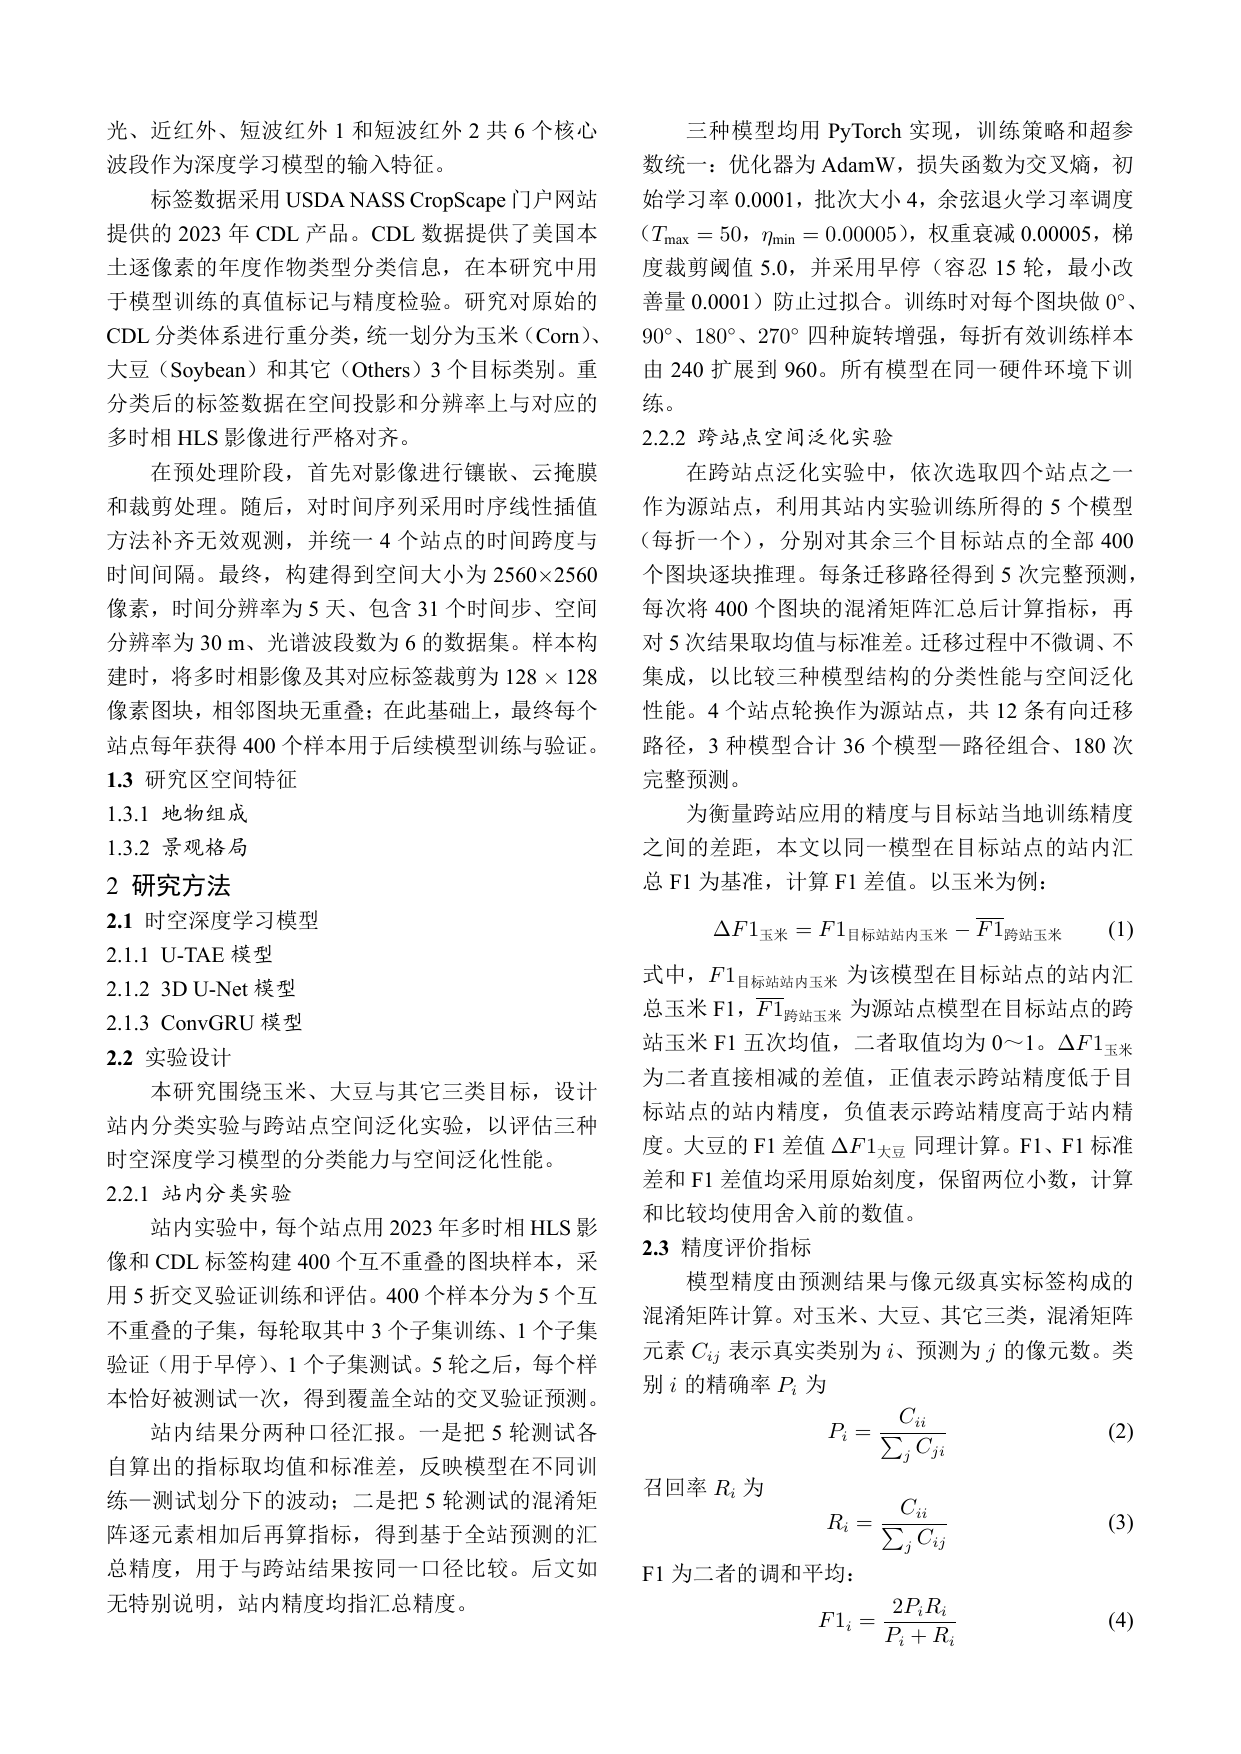
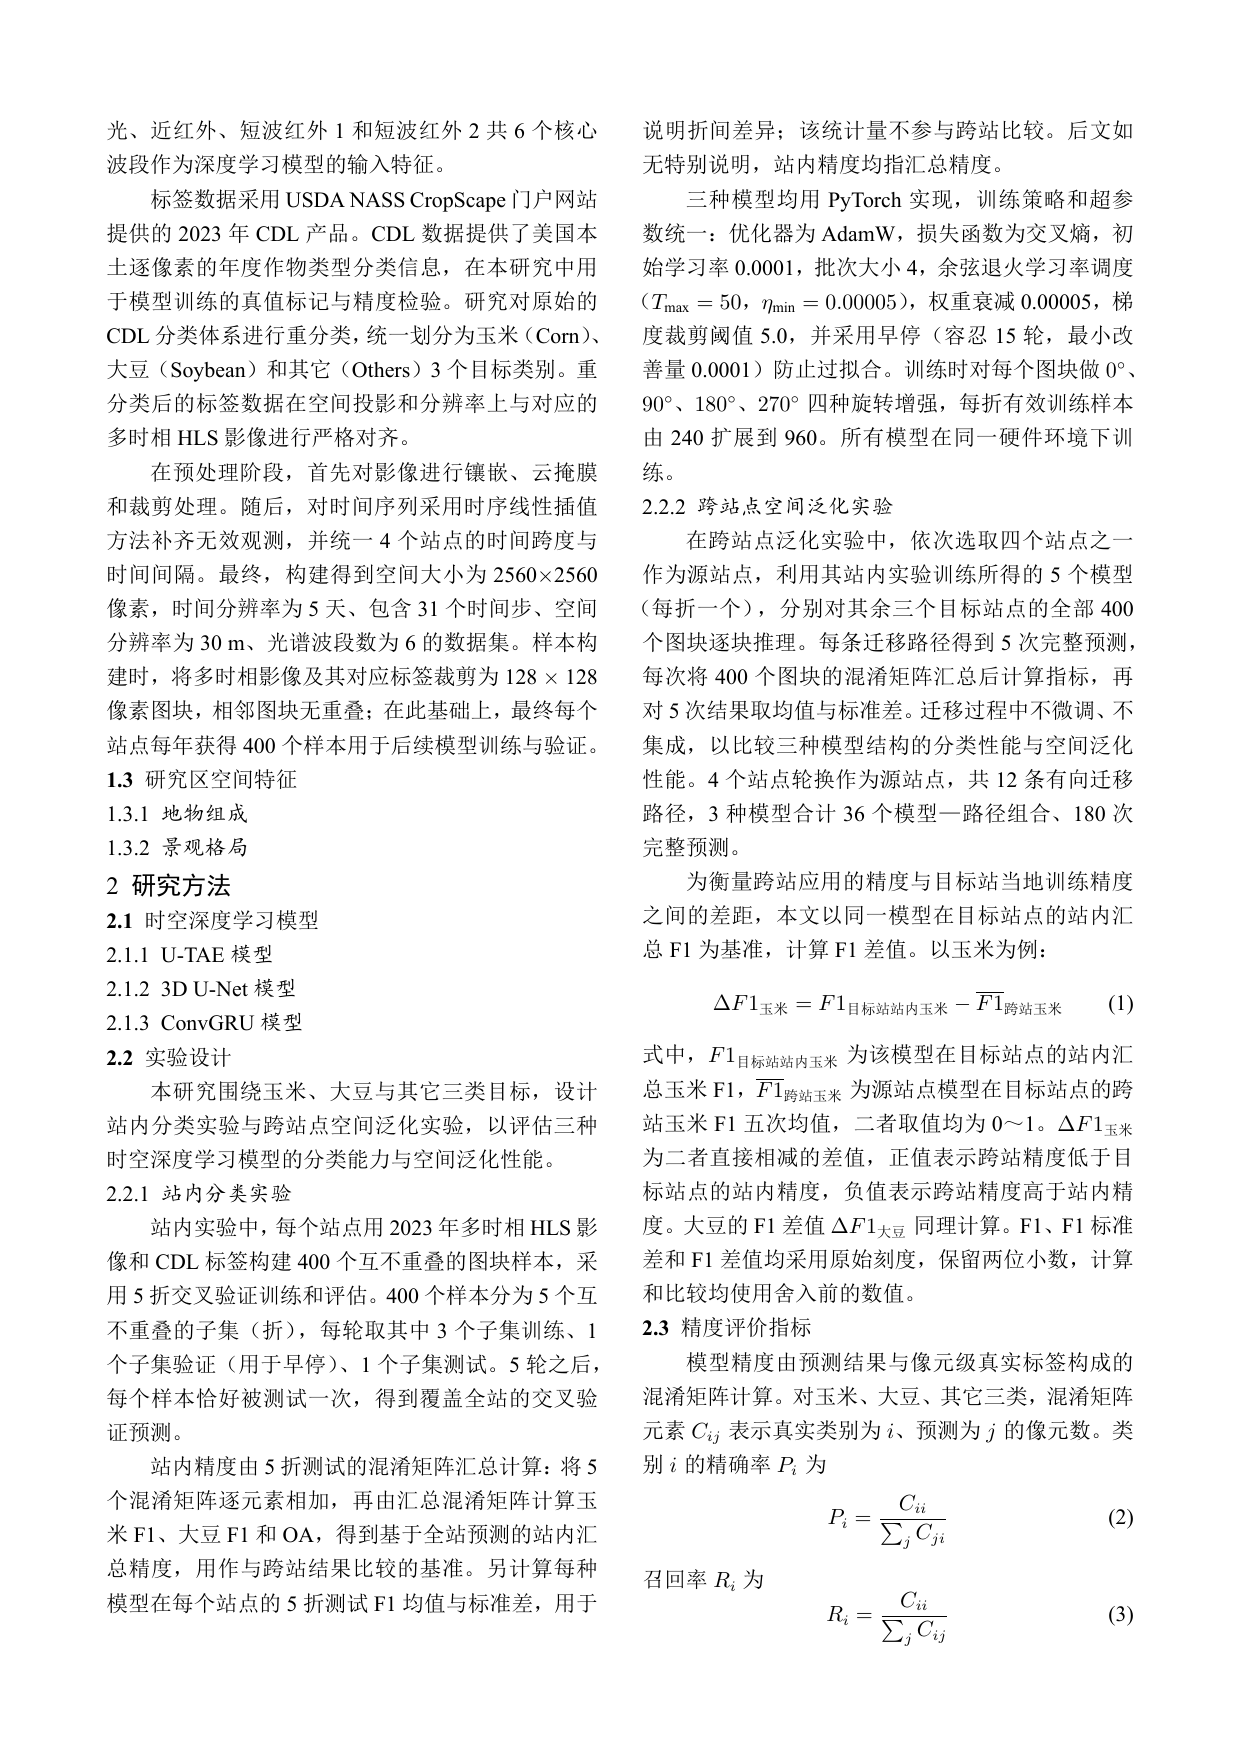
完成3.1/3.2润色并统一折间差异口径
3.1、3.2措辞修正：删除“明显”“稳定的相对差异”等空泛表述，最低目标站、站点差异与差值区间按数据改写；2.2.1站内精度改写为汇总精度为主、折间统计量为辅，实验协议、术语表、大纲同步该口径并新增“折划分”词条；README补充任务计划与脚本目录约定，format-spec同步坐标轴标签说明。编译6页PDF无Overfull/Underfull，重导第2至5页预览并更新清单。

diff --git a/sections/04_results.tex b/sections/04_results.tex
@@ -7,7 +7,7 @@
 % 数据：results/summary/f1_raw_scale/within_site_crop_f1.csv（汇总口径）、within_site_crop_f1_fold_stats.csv（折间标准差）
 % 图表显示两位小数，计算和比较使用未按显示精度舍入的值。
 
-如图\ref{fig:within_site_f1}所示，三种模型在四个站点的站内玉米F1为0.91～0.96，大豆F1为0.90～0.96。三种模型的分类表现呈现出两点共性：在同一站点内，玉米F1均高于大豆F1，差值均小于0.02；跨站点比较，各模型的玉米和大豆F1均在A站点取得各自最高值。五折交叉验证中，12组实验（3种模型×4个站点）的玉米和大豆F1折间标准差均小于0.01，模型在不同训练—测试划分下的波动较小，站内分类表现稳定。
+如图\ref{fig:within_site_f1}所示，三种模型在四个站点的站内玉米F1为0.91～0.96，大豆F1为0.90～0.96。三种模型的分类表现呈现出两点共性：在四个站点上，玉米F1均高于大豆F1，差值均小于0.02；跨站点比较，各模型的玉米和大豆F1均在A站点取得各自最高值。五折交叉验证中，同一数据集不同划分下的每折独立训练，12组实验（3种模型×4个站点）的玉米和大豆F1折间标准差均小于0.01。
 
 \par\addvspace{3pt}
 \noindent\begin{minipage}{\linewidth}
@@ -28,7 +28,7 @@
 \label{fig:within_site_f1}
 \end{minipage}\par\addvspace{3pt}
 
-三种模型的分类性能表现出稳定的相对差异。U-TAE和3D U-Net在各站点的玉米和大豆F1均高于ConvGRU，而二者之间差值均小于0.01，互有高低：U-TAE在A、B、C三个站点略优，3D U-Net在D站点略优。ConvGRU与前两者的差距因站点而异——两种作物的最大差值在C站点约为0.02，在D站点约为0.04。图\ref{fig:within_site_map_D}以差距最大的D站点为例对比了三种模型的站内交叉验证分类结果：在选中局部区域中，ConvGRU的玉米和大豆像元错误率为12.1\%，高于3D U-Net（5.8\%）和U-TAE（4.8\%）。
+三种模型之间的差异主要体现在ConvGRU与另两种模型之间。U-TAE和3D U-Net在各站点的玉米和大豆F1均高于ConvGRU，而二者之间差值均小于0.01，互有高低：U-TAE在A、B两个站点略优，3D U-Net在D站点略优，C站点两者相当。ConvGRU与前两者的差距因站点而异：两种作物在C站点均约为0.02，在D站点均约为0.04。图\ref{fig:within_site_map_D}以差距较大的D站点为例对比了三种模型的站内交叉验证分类结果：在选中局部区域中，ConvGRU的玉米和大豆像元错误率为12.1\%，高于3D U-Net（5.8\%）和U-TAE（4.8\%）。
 
 % 图 3：上行全站 2560×2560 标红框，下行红框窗口放大；窗口 = D 站图块网格 (13,8) 起 2×2，像元行 1664–1920、列 1024–1280
 % 选窗标准：只看真实玉米/大豆像元——作物像元错误率 ConvGRU 12.1% / 3D U-Net 5.8% / U-TAE 4.8%；
@@ -82,7 +82,7 @@
 %       results/summary/f1_raw_scale/within_site_crop_f1.csv（同模型目标站站内基准）
 %       results/summary/f1_raw_scale/crop_f1_difference_36paths.csv（图 4，原尺度差值）
 
-如表\ref{tab:cross_site_f1_paths}所示，源站模型不经微调直接用于目标站后，36个模型—路径组合的玉米和大豆跨站F1均低于同一模型在目标站的站内汇总F1。跨站玉米F1为0.86～0.93，大豆F1为0.83～0.92，每项为五次完整目标站预测的均值。按目标站对3条路径取平均，三种模型的玉米和大豆跨站F1均在以A站点为目标站时最高，与站内结果中A站点精度最高相对应；玉米跨站F1则均在以C站点为目标站时最低，大豆跨站F1的最低目标站因模型而异。
+如表\ref{tab:cross_site_f1_paths}所示，源站模型不经微调直接用于目标站后，36个模型—路径组合的玉米和大豆跨站F1均低于同一模型在目标站的站内汇总F1。跨站玉米F1为0.86～0.93，大豆F1为0.83～0.92，每项为五次完整目标站预测的均值。按目标站对3条路径取平均，三种模型的玉米和大豆跨站F1均在以A站点为目标站时最高，与站内结果中A站点精度最高相对应；玉米跨站F1则均在以C站点为目标站时最低，大豆跨站F1的最低目标站则不一致。
 
 \begin{table*}[tbp]
 \centering
@@ -109,13 +109,13 @@
 % 第二段：12 条路径平均跨站 F1 与平均 F1 差值均从完整精度计算。
 % 两种排序分别对应实际精度与相对同一模型目标站当地训练基准的差距。
 
-按12条路径取算术平均，ConvGRU的跨站F1均值最低，但平均F1差值最小：其跨站玉米和大豆F1分别为0.89和0.88，比3D U-Net和U-TAE约低0.01～0.02（后两者两种作物的均值均约为0.90）；而玉米和大豆平均F1差值均约为0.03，小于3D U-Net和U-TAE（均约为0.04）。跨站F1反映模型在目标站的实际分类精度，F1差值衡量的则是跨站F1与同一模型在目标站站内汇总F1之间的差距。因此，F1差值较小不代表跨站绝对精度更高，评价模型的跨站表现需要同时考察这两个指标。
+按12条路径取算术平均，ConvGRU的跨站F1均值最低，但平均F1差值最小：其跨站玉米和大豆F1分别为0.89和0.88，比3D U-Net和U-TAE低0.01～0.02（后两者两种作物的均值均约为0.90）；而玉米和大豆平均F1差值均约为0.03，小于3D U-Net和U-TAE（均约为0.04）。跨站F1比较的是模型在目标站的实际分类精度，F1差值衡量的则是跨站F1与同一模型在目标站站内汇总F1之间的差距。因此，F1差值较小不代表跨站绝对精度更高，评价模型的跨站表现需要同时考察这两个指标。
 
 % 第三段：图 4 数据 results/summary/f1_raw_scale/crop_f1_difference_36paths.csv。
 % 固定目标站 D：ConvGRU 大豆 C→D 0.01（五次 0.0077～0.0099）、B→D 0.07（五次 0.0329～0.1081）。
 % B↔D：ConvGRU 玉米、大豆均 B→D 较大，3D U-Net 均 D→B 较大；比较基于各路径五次预测均值。
 
-如图\ref{fig:degradation_heatmap}所示，F1差值随源—目标组合而变化，且三种模型的变化并不一致。即使目标站相同，F1差值也会随源站不同而明显改变：以D站点为目标站时，ConvGRU的大豆F1差值在源站为C时为0.01，源站为B时为0.07；两者五次预测对应的F1差值分别约为0.01和0.03～0.11，源站为B时的每一次结果均高于源站为C时，但五次之间的波动也更大。在B、D两个站点之间，迁移方向对不同模型的影响也不同：ConvGRU的玉米和大豆F1差值均为B→D方向较大，3D U-Net则均为D→B方向较大；以大豆为例，ConvGRU在B→D和D→B路径上分别为0.07和0.03，3D U-Net分别为0.04和0.06。上述方向差异基于五次预测的均值，仅反映这一站点对上的表现，不代表普遍的迁移规律。这些差异与站点空间特征的对应关系，将在后文结合地物组成与景观结构分析。
+如图\ref{fig:degradation_heatmap}所示，F1差值随源—目标组合而变化，且三种模型的变化并不一致。即使目标站相同，F1差值也会随源站不同而改变：以D站点为目标站时，ConvGRU的大豆F1差值在源站为C时为0.01，源站为B时为0.07；这两种源站下五次预测对应的F1差值分别约为0.01和0.03～0.11，源站为B时的每一次结果均高于源站为C时，但五次之间的波动也更大。在B、D两个站点之间，两个方向上的F1差值大小关系也因模型而异：ConvGRU的玉米和大豆F1差值均为B→D方向较大，3D U-Net则均为D→B方向较大；以大豆为例，ConvGRU在B→D和D→B路径上分别为0.07和0.03，3D U-Net分别为0.04和0.06。上述方向差异基于五次预测的均值，仅反映这一站点对上的表现，不代表普遍的迁移规律。这些差异与站点空间特征的对应关系，将在后文结合地物组成与景观结构分析。
 
 \begin{figure*}[tbp]
 \centering

diff --git a/sections/03_methods.tex b/sections/03_methods.tex
@@ -19,9 +19,9 @@
 
 \subsubsection{站内分类实验}
 
-站内实验中，每个站点用2023年多时相HLS影像和CDL标签构建400个互不重叠的图块样本，采用5折交叉验证训练和评估。400个样本分为5个互不重叠的子集，每轮取其中3个子集训练、1个子集验证（用于早停）、1个子集测试。5轮之后，每个样本恰好被测试一次，得到覆盖全站的交叉验证预测。
+站内实验中，每个站点用2023年多时相HLS影像和CDL标签构建400个互不重叠的图块样本，采用5折交叉验证训练和评估。400个样本分为5个互不重叠的子集（折），每轮取其中3个子集训练、1个子集验证（用于早停）、1个子集测试。5轮之后，每个样本恰好被测试一次，得到覆盖全站的交叉验证预测。
 
-站内结果分两种口径汇报。一是把5轮测试各自算出的指标取均值和标准差，反映模型在不同训练—测试划分下的波动；二是把5轮测试的混淆矩阵逐元素相加后再算指标，得到基于全站预测的汇总精度，用于与跨站结果按同一口径比较。后文如无特别说明，站内精度均指汇总精度。
+站内精度由5折测试的混淆矩阵汇总计算：将5个混淆矩阵逐元素相加，再由汇总混淆矩阵计算玉米F1、大豆F1和OA，得到基于全站预测的站内汇总精度，用作与跨站结果比较的基准。另计算每种模型在每个站点的5折测试F1均值与标准差，用于说明折间差异；该统计量不参与跨站比较。后文如无特别说明，站内精度均指汇总精度。
 
 三种模型均用PyTorch实现，训练策略和超参数统一：优化器为AdamW，损失函数为交叉熵，初始学习率0.0001，批次大小4，余弦退火学习率调度（$T_{\max}=50$，$\eta_{\min}=0.00005$），权重衰减0.00005，梯度裁剪阈值5.0，并采用早停（容忍15轮，最小改善量0.0001）防止过拟合。训练时对每个图块做$0^{\circ}$、$90^{\circ}$、$180^{\circ}$、$270^{\circ}$四种旋转增强，每折有效训练样本由240扩展到960。所有模型在同一硬件环境下训练。
 

diff --git a/README.md b/README.md
@@ -27,6 +27,8 @@
 
 ## 工作流
 
+明确的大任务先在 `plan/tasks/` 写行动计划，再拆分步骤执行；小修改无需任务计划。计划按 `YYYY-MM-DD-主题.md` 命名，记录任务范围、执行步骤和核验结果，便于审计。
+
 ```
 论文问题与实验事实 → plan → evidence / results → tables/figures
                                           ↓
@@ -71,7 +73,7 @@ Zotero → Better BibTeX → Keep Updated → `bibliography/references.bib`
 
 - **不删除任何文件**，包括未跟踪文件、历史结果、旧图、测试产物和过时脚本。只允许有记录地归档，不用删除或新增忽略规则制造干净工作区。
 - 当前规则以 `AGENTS.md` 为准；`README.md` 维护运行入口，`plan/` 维护科学协议，`verification/` 记录实际验证范围。交接提示和旧报告不覆盖磁盘现状。
-- `scripts/` 保留当前生产与探索入口；`scripts/test/` 集中测试脚本。测试使用内存构造数据，不将 mock/placeholder 写入正式结果。
+- 测试脚本统一放在 `scripts/test/`，其他当前脚本放在 `scripts/`；保持目录职责清晰、入口准确，避免重复文件和冗余说明。测试使用内存构造数据，不将 mock/placeholder 写入正式结果。
 - `archive/` 仅保存已确认停用的内容；归档清单必须记录原路径、新路径、原因和 SHA-256。先核查依赖再移动，目标同名时停止，不覆盖。用途不明的内容原位保留。
 - 不执行删除型清理命令，不运行会自动删除临时文件的测试清理流程。归档脚本只供追溯，不作为当前运行入口。
 - 3.3 现有成果为 `derived / exploratory`，不自动进入正文；历史清单的 `Verified` 不等于本轮重新验证。接手时先检查脚本、输入、产物和协议哈希。

diff --git a/plan/experiment-protocol.md b/plan/experiment-protocol.md
@@ -21,9 +21,9 @@
 - 折轮换（`train_semantic.py` 第 1243—1249 行，2026-09-27 核）：[1,2,3]/4/5、[2,3,4]/5/1、[3,4,5]/1/2、[4,5,1]/2/3、[5,1,2]/3/4（训练/验证/测试）；折号取自各站 `metadata.csv` 的 `fold_id`，每折 80 个图块，`fold_balance_report.csv` 中三类面积占比与 20% 的偏差均在 ±0.6 个百分点内（D 站）
 - **相邻图块分折**（2026-09-27 现算，未分析其对精度的影响）：20×20 网格上四邻域相邻图块分属不同折的比例 A 82.6%、B 82.0%、C 80.0%、D 78.8%，与随机置换期望（约 80%）相当，即折划分在空间上接近随机；每站 385～392 个测试图块至少与一个同轮训练图块直接相邻。图块互不重叠（`overlap` = 0）。正文不据此声称站内精度偏高，也不估算其对 F1 差值的影响
 - 训练增强：0°/90°/180°/270° 四种旋转，每折有效训练样本 240 → 960
-- **两种汇报口径，不可混用**：
-  - `oof_pooled`：5 个测试折 CM 逐元素求和后计算指标——用于站内基准和退化计算
-  - `cv_mean / cv_std`：各测试折指标的算术均值和标准差——只用于说明训练稳定性
+- **汇总精度为主、折间统计量为辅，两者不可混用**：
+  - `oof_pooled`：5 个测试折 CM 逐元素求和后计算指标——站内基准，用于跨站比较与差值计算
+  - `cv_mean / cv_std`：各测试折指标的算术均值和标准差——只用于说明折间差异，不参与跨站比较
 
 ## 跨站实验
 

diff --git a/plan/format-spec.md b/plan/format-spec.md
@@ -74,7 +74,7 @@
 - **图名、子图题是文本**：`\caption`、`subcaption`，不画进图片。子图题格式"（a）……"，写全对象
 - **图例是文本**（`\modellegend`、`\classlegend`，颜色与 figstyle 一致）：横排居中，放在最后一个子图题之后、图名之前，代表整幅图
 - **间距**：子图题贴子图、子图之间、图例、图名之间一律 3 pt（正文行间空白），不比段落行距大。写法：`\captionsetup{skip=3pt}`；子图之间和图例之前用 `\end{subfigure}\par\nointerlineskip\vspace{3pt}`——**不要用 `\\[3pt]`**，它会连带一整行行距，实测 14.6 pt（2026-09-21 用户确认后的标准）
-- **坐标轴都要有标签**：站点轴写"站点"（竖排在左），F1 轴写"F1/%"；读者不该猜 A–D 是什么
+- **坐标轴都要有标签**：站点轴写"站点"（竖排在左），F1 轴写作物名加 F1，如“玉米 F1”“大豆 F1”；读者不该猜 A–D 是什么
 - **文件**：每个子图单独一个 PDF（`fig_xxx_a.pdf`…），`\includegraphics{}` 不带 width，按原尺寸放；PNG 只作预览
 - **脚本**：`fs.grid(nrows, ncols, w, h)` 建图，图框恰好 w×3.8 × h×3.8 cm；`fs.save(fig, stem)` 出 pdf+png
 - 三模型固定色：ConvGRU 紫 `#7B3FA0`、3D U-Net 青 `#1B9E9E`、U-TAE 橘 `#E8731A`

diff --git a/plan/terminology.md b/plan/terminology.md
@@ -44,8 +44,9 @@
 | 源站点 / 源站 | source site | 模型训练所在站点 |
 | 目标站点 / 目标站 | target site | 模型直接应用的站点 |
 | 汇总精度 | oof_pooled | 5 个测试折混淆矩阵逐元素相加后计算的指标；站内基准与退化的口径；正文不用 OOF 缩写 |
-| 五折均值 / 折间标准差 | cv_mean / cv_std | 各测试折指标的算术均值与标准差；只用于说明训练稳定性 |
+| 五折均值 / 折间标准差 | cv_mean / cv_std | 各测试折指标的算术均值与标准差；只用于说明折间差异，不参与跨站比较 |
 | 5 折交叉验证 | 5-fold cross-validation | 3 训练 + 1 验证 + 1 测试 |
+| 折划分 | fold partition | 将样本分配至5个互斥子集（折）的方案；本项目按类别面积平衡划分，非空间分层 |
 | 折 | fold | 正文不用 fold |
 | 模型（某折的） | checkpoint | 正文写"每折一个模型"或"5 个模型"，不用 checkpoint |
 

diff --git a/plan/outline.md b/plan/outline.md
@@ -38,7 +38,7 @@
 
 ### 3.1 模型站内分类性能
 - 站内汇总玉米 F1、大豆 F1、OA
-- 五折均值 ± 标准差说明训练稳定性
+- 五折均值 ± 标准差说明折间差异
 - 三模型排序、玉米/大豆难度差异、站点难度差异
 
 ### 3.2 模型跨站分类性能与泛化退化
